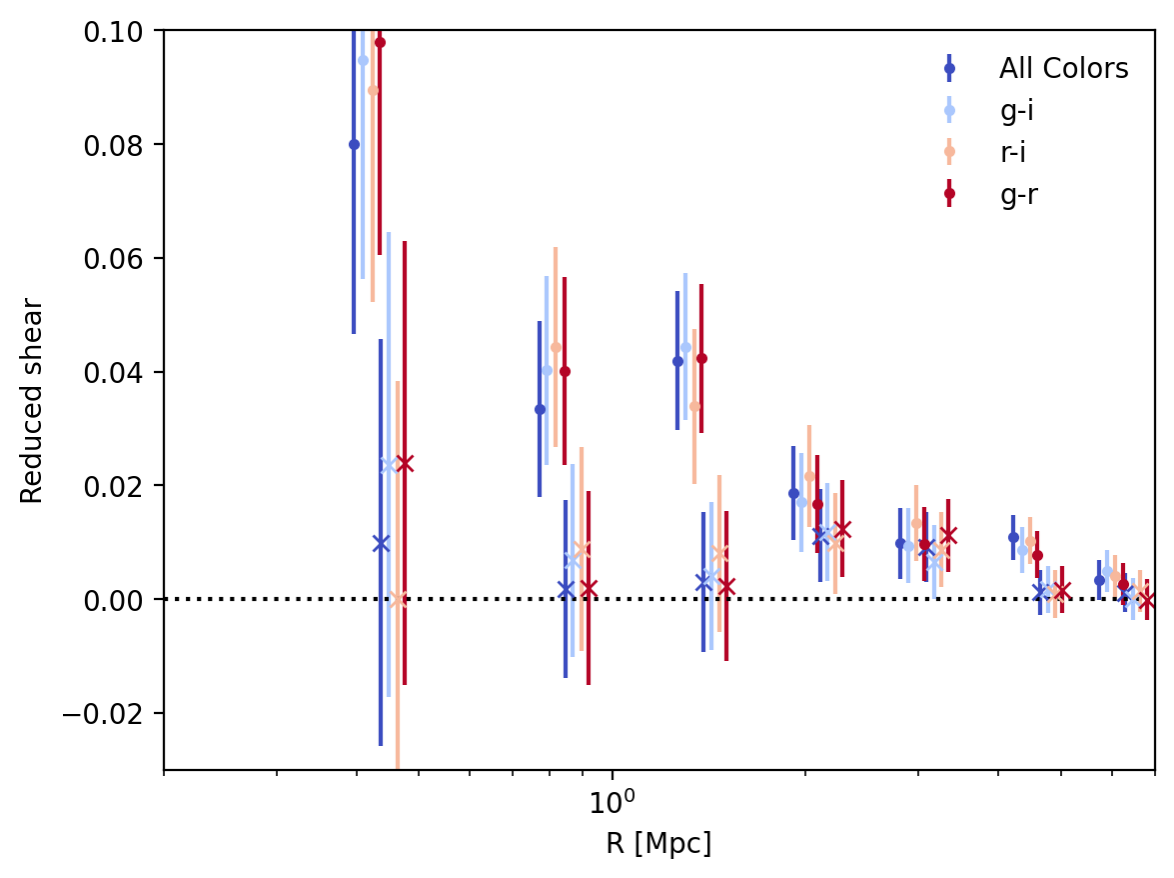
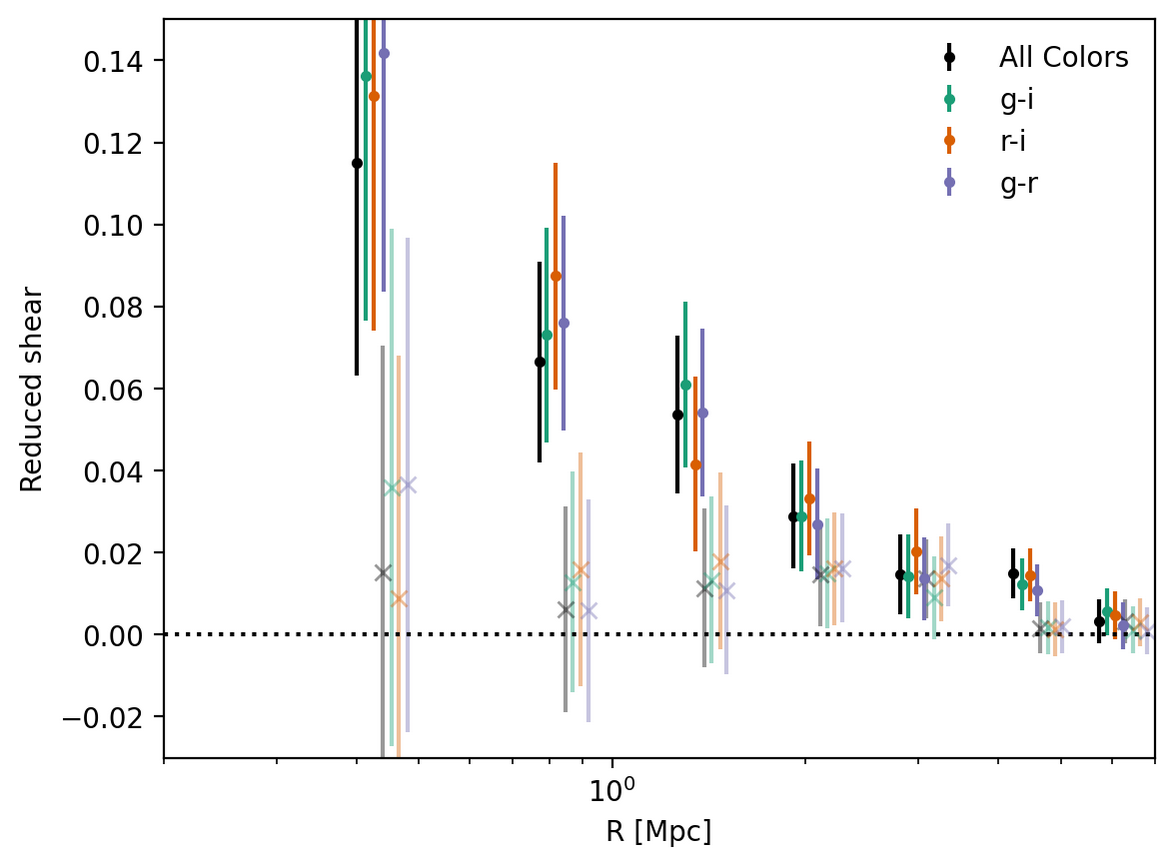
non-draft + comment fixes

diff --git a/index.md b/index.md
@@ -28,6 +28,8 @@ We study the quality of the PSF modeling and impact it can have on cluster WL in
 ## Dataset
 The Rubin SV 38 7 field has been observed in *g* (44 visits), *r* (55 visits), *i* (57 visits) and *z* (27 visits) {cite:p}`RTN-011` with no visits in u and y-band.
 The Data Preview 1 (DP1) Object catalog {cite:p}`RTN-095good, ObjectTable`includes various flux measurements including cModel {cite:p}`SDSS2004` and GaaP {cite:p}`Kuijken_2008` along with HSM shape measurements {cite:p}`HSM1, HSM2`.
+This was accessed using the Butler {cite:p}`Butler` with {code}`repo="dp1"` and {code}`collection="LSSTComCam/DP1"`.
+
 The second moments of the light profile of objects, $Q_{ij}$, and of the PSF at each object, $Q^{\textrm{PSF}}_{ij}$, are included which can be combined to create size estimate $T = Q_{xx} + Q_{yy}$ of the object and PSF at that point. 
 These are in turn used to calculate the HSM resolution factor {cite:p}`HSM-y1`,$R = 1-\frac{T_\textrm{PSF}}{T_\textrm{I}}$, which compares the resolution of a galaxy to the PSF in order to remove stars and poor quality objects
 Photometric redshift estimates are not included in the DP1 catalog but have been created as outlined in {cite:p}`SITCOMTN-154`.
@@ -59,7 +61,7 @@ The flags and number of objects affected by the flag are listed in {numref}`qual
 
 Within 0.5 degrees of the brightest central galaxy (BCG) located at (RA, DEC) = $(37.865017^{\circ}, 6.982205^{\circ})$ we have 58676 objects with measurements in *griz* bands.
 Star-galaxy separation is done using the `refExtendedness` flag which will flag objects if $\frac{\textrm{flux}_\textrm{psf}}{\textrm{flux}_\textrm{cModel}} < .985$ {cite:p}`2018HSC`  as galaxies giving 52309 galaxies (89%) and 6367 stars (11%).
-The counts per bin of galaxies only is shown in {numref}`galaxy-dist`  with *griz* bands reaching an estimated depth of 24.9, 24.5, 24.3, and 23.6 mags respectively.
+The counts per bin of galaxies only is shown in {numref}`galaxy-dist`  with *griz* bands reaching an estimated depth of 24.9, 24.4, 24.2, and 23.5 mags respectively.
 The depths are estimated by using the peak of the galaxy magnitude distribution below.
 These limits are not derived from synthetic source injection and should be treated as rough guides to the true limits.
 
@@ -77,7 +79,7 @@ We can select cluster members by identifying the red sequence galaxies in a colo
 Due to fewer observations in *z* we focus on the _gri_ bands and the colors (*g-r*, *r-i*, *g-i*) from this set.
 We use cModel fluxes for magnitudes and GaaP1p0 fluxes for colors.
 <!--To correct for varying aperture sizes, we use GaaP fluxes when combining bands for colors and use the cModel flux when calculating magnitudes.-->
-To identify the red sequence we first restrict to detections within 0.1 degrees (1.3 Mpc) of the BCG which leaves 2194 galaxies. 
+To identify the red sequence we first restrict to detections within 0.1 degrees (1.3 Mpc) of the BCG which leaves 2194 galaxies (as identified by `refExtendedness==1`). 
 The color-magnitude diagram is shown below in {numref}`CMD_nors`
 
 
@@ -87,12 +89,12 @@ The color-magnitude diagram is shown below in {numref}`CMD_nors`
 Color-magnitude diagrams for galaxies near the BCG using cModel r magnitude on x-axis and GaaP calculated colors on the y-axis. From left to right we show the *g-i*, *r-i*, and *g-r* colors with the red sequence overdensity clearly visible. 
 ```
 
-The red sequence is identified per color by eye with a limiting magnitude of $r < 24$ applied and shown in {numref}`CMD_rs` giving 286, 316, 286 objects in the *g-i*, *r-i*, and *g-r* CMDs respectively. Requiring that an object be in all three red sequences restricts us to 216 objects and is shown in {numref}`CMD_all_rs`.
+The red sequence is identified per color by eye along with magnitude cuts $18 < r < 24$ applied and shown in {numref}`CMD_rs` giving 340, 428, 348 objects in the *g-i*, *r-i*, and *g-r* CMDs respectively. Requiring that an object be in all three red sequences restricts us to 218 objects and is shown in {numref}`CMD_all_rs`.
 
 ```{figure} _static/CMD_rs.png
 :name: CMD_rs
 
-Red sequence members identified by eye and adding a magnitude limit of $r < 24$. From left to right we show the *g-i*, *r-i*, and *g-r* colors.
+Red sequence members identified by eye and adding magnitude cuts of $18 < r < 24$. From left to right we show the *g-i*, *r-i*, and *g-r* colors.
  
 ```
 
@@ -102,7 +104,7 @@ Red sequence members identified by eye and adding a magnitude limit of $r < 24$.
 Multi-color red sequence members. From left to right we show the *g-i*, *r-i*, and *g-r* colors. 
 ```
 
-When applying the color cuts to the  sample (within 0.5$^\circ$ of the BCG), we remove 873 galaxies and remain with 57803 galaxies. 
+When applying all three color cuts to the sample (within 0.5$^\circ$ of the BCG), we remove 997 entries and remain with 57679 objects.
 
 ## Photo-Z Selection
 
@@ -194,7 +196,8 @@ The cuts and values used are listed below in {numref}`weaklen_table`
 
 
 ### Shear Profile
-To calculate the shear profile for each subsample when applying color cuts or photo-z cuts, we first convert from $e_1$ and $e_2$ to $\gamma_1$ and $\gamma_2$ by applying HSC Y1 shear calibration {cite:p}`HSCCalib1, HSCCalib2`.
+To calculate the shear profile for each subsample when applying color cuts or photo-z cuts, we first convert from $e_1$ and $e_2$ to $\gamma_1$ and $\gamma_2$ by applying HSC Y3 shear calibration {cite:p}`HSC-y3`. 
+<!--{cite:p}`HSCCalib1, HSCCalib2`.-->
 <!--For other shear calibration techniques please see [Anacal technote] for results when applying Anacal, and {cite}`SITCOMTN-162` for Metadetect.-->
 Once calibrated, we can convert the shears to tangential and cross components using the cluster BCG, located at (RA, DEC) = (37.865017, 6.982205), using 
 ```{math}
@@ -211,7 +214,7 @@ While there is a larger spread on the value of the $\gamma_+$ between the cuts, 
 ```{figure} _static/shear_profile_cc.png
 :name: shear_profile_cc
 
-The shear profile with varying color cuts. The tangential shear component is shown with circular points and cross shear component with x points. The error bar represents a 95% confidence interval from bootstrapped samples. “All colors” refers to using all three red sequences and is shown in dark blue, "g-i" uses points found only on the $g-i$ red sequence and is shown in light blue, "r-i" for the $r-i$ redsequence and shown in light red, and "g-r" for the $g-r$ redsequence and shown in dark red. The points are staggered on the x-axis for clarity. 
+The shear profile with varying color cuts. The tangential shear component is shown with circular points and cross shear component with x points with fainter colors. The error bar represents a 95% confidence interval from bootstrapped samples. “All colors” refers to using all three red sequences and is shown in black, "g-i" uses points found only on the $g-i$ red sequence and is shown in green, "r-i" for the $r-i$ red sequence and shown in orange, and "g-r" for the $g-r$ red sequence and shown in purple. The points are staggered on the x-axis for clarity. 
 ```
 
 ```{figure} _static/shear_profile_pz.png
